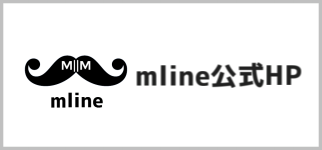
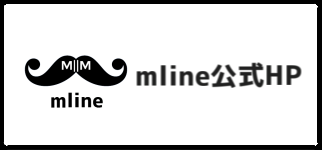
スペシャル

Changed region(s): [[0.0, 0.0, 1.0, 1.0]]

diff --git a/css/special.css b/css/special.css
@@ -89,56 +89,30 @@ a:hover {
 .container {
     width: 1024px;
     margin: 0 auto;
+    text-align: center;
 }
 
 
 /*タイトル*/
 
-.twitter_icon {
-    width: 700px;
-    height: auto;
-    margin: 0 auto;
-    margin-bottom: 20px;
-    background: rgba(255, 239, 213, 0.7);
-    text-align: center;
+.box-shadow {
+  margin-top: 30px;
+  margin-bottom: 20px;
+  transition: 0.5s;
+  -moz-box-shadow: 2px 4px 5px 0px #dbdbdb;
+  -webkit-box-shadow: 2px 4px 5px 0px #dbdbdb;
+  box-shadow: 2px 4px 5px 0px #dbdbdb;
 }
 
-.twitter_icon img{
-    width: 200px;
-    float: left;
-    margin-left: 16px;
-    margin-right: 10px;
-    margin-top: 20px;
-    border: 2px solid #888 ;
+.box-shadow:hover {
+  cursor:pointer;
+    filter: alpha(opacity=60);        /* ie lt 8 */
+    -ms-filter: "alpha(opacity=60)";  /* ie 8 */
+    -moz-opacity:0.6;                 /* FF lt 1.5, Netscape */
+    -khtml-opacity: 0.6;              /* Safari 1.x */
+    opacity:0.6;
+    zoom:1;
 }
-
-.twitter_head {
-    width: 700px;
-    height: auto;
-    margin: 0 auto;
-    margin-bottom: 20px;
-    background: rgba(255, 239, 213, 0.7);
-    text-align: center;
-}
-
-.twitter_head img{
-  width: 50%;
-  border: 2px solid #888 ;
-}
-
-.web_ba{
-    width: 700px;
-    height: auto;
-    margin: 0 auto;
-    margin-bottom: 20px;
-    background: rgba(255, 239, 213, 0.7);
-    text-align: center;
-}
-
-.web_ba img{
-  border: 2px solid #888 ;
-}
-
 
 /*フッター設定
 ---------------------------------------------------------------------------*/

diff --git a/special.html b/special.html
@@ -36,27 +36,8 @@
         </ul>
     </div>
     <div class="container">
-        <div class="twitter_icon">
-          <h1>Twitterアイコン画像</h1>
-            <img src="images/dl/tw_kaede.png" />
-            <img src="images/dl/tw_yayoi.png" />
-            <img src="images/dl/tw_yukino.png" />
-            <img src="images/dl/tw_sipses.png" />
-            <img src="images/dl/tw_sipses2.png" />
-            <img src="images/dl/tw_yukino2.png" />
-        </div>
-
-        <div class="twitter_head">
-          <h1>Twitterヘッダー画像</h1>
-            <img src="images/dl/twh_kaede.png" />
-        </div>
-
-        <div class="web_ba">
-          <h1>応援バナー画像</h1>
-            <img src="images/ba/kaede_120x600.png" />
-            <img src="images/ba/sepsis_120x600.png" />
-            <img src="images/ba/sepsis_200x200.png" />
-        </div>
+      <a href="movie/"><img src="images/sp/movie_btn.png" class="box-shadow"></a>
+      <a href="download.html"><img src="images/sp/download_btn.png" class="box-shadow"></a>
     </div>
 
     <footer>

diff --git a/index.html b/index.html
@@ -64,7 +64,7 @@
 
         <div class="introduction">
             <a href="intro.html">
-                <div class="intro_btn"></div>
+                <img src="images/intro_btn.png" class="box-shadow" />
             </a>
             <h1 class="infor_caption">最新情報</h1>
             <div id="news">
@@ -130,8 +130,8 @@
                 </div>
             </div>
             <div class="link_img">
-                <a href="https://mline.tell.jp/HP/"><img src="images/mline_link.png" /></a>
-                <a href="http://www.kensacenter.com/"><img src="images/saikin_link.png" /></a>
+                <a href="https://mline.tell.jp/HP/"><img src="images/mline_link.png" class="box-shadow"/></a>
+                <a href="http://www.kensacenter.com/"><img src="images/saikin_link.png" class="box-shadow"/></a>
             </div>
         </div>
     </div>

diff --git a/css/style.css b/css/style.css
@@ -154,10 +154,21 @@ a:hover {
     background: rgba(255, 255, 255, 0.8);
 }
 
-.intro_btn {
-    width: 650px;
-    height: 150px;
-    background-image: url("../images/intro_btn.png");
+.box-shadow {
+  transition: 0.5s;
+  -moz-box-shadow: 2px 4px 5px 0px #dbdbdb;
+  -webkit-box-shadow: 2px 4px 5px 0px #dbdbdb;
+  box-shadow: 2px 4px 5px 0px #dbdbdb;
+}
+
+.box-shadow:hover {
+  cursor:pointer;
+    filter: alpha(opacity=60);        /* ie lt 8 */
+    -ms-filter: "alpha(opacity=60)";  /* ie 8 */
+    -moz-opacity:0.6;                 /* FF lt 1.5, Netscape */
+    -khtml-opacity: 0.6;              /* Safari 1.x */
+    opacity:0.6;
+    zoom:1;
 }
 
 .infor_caption {
